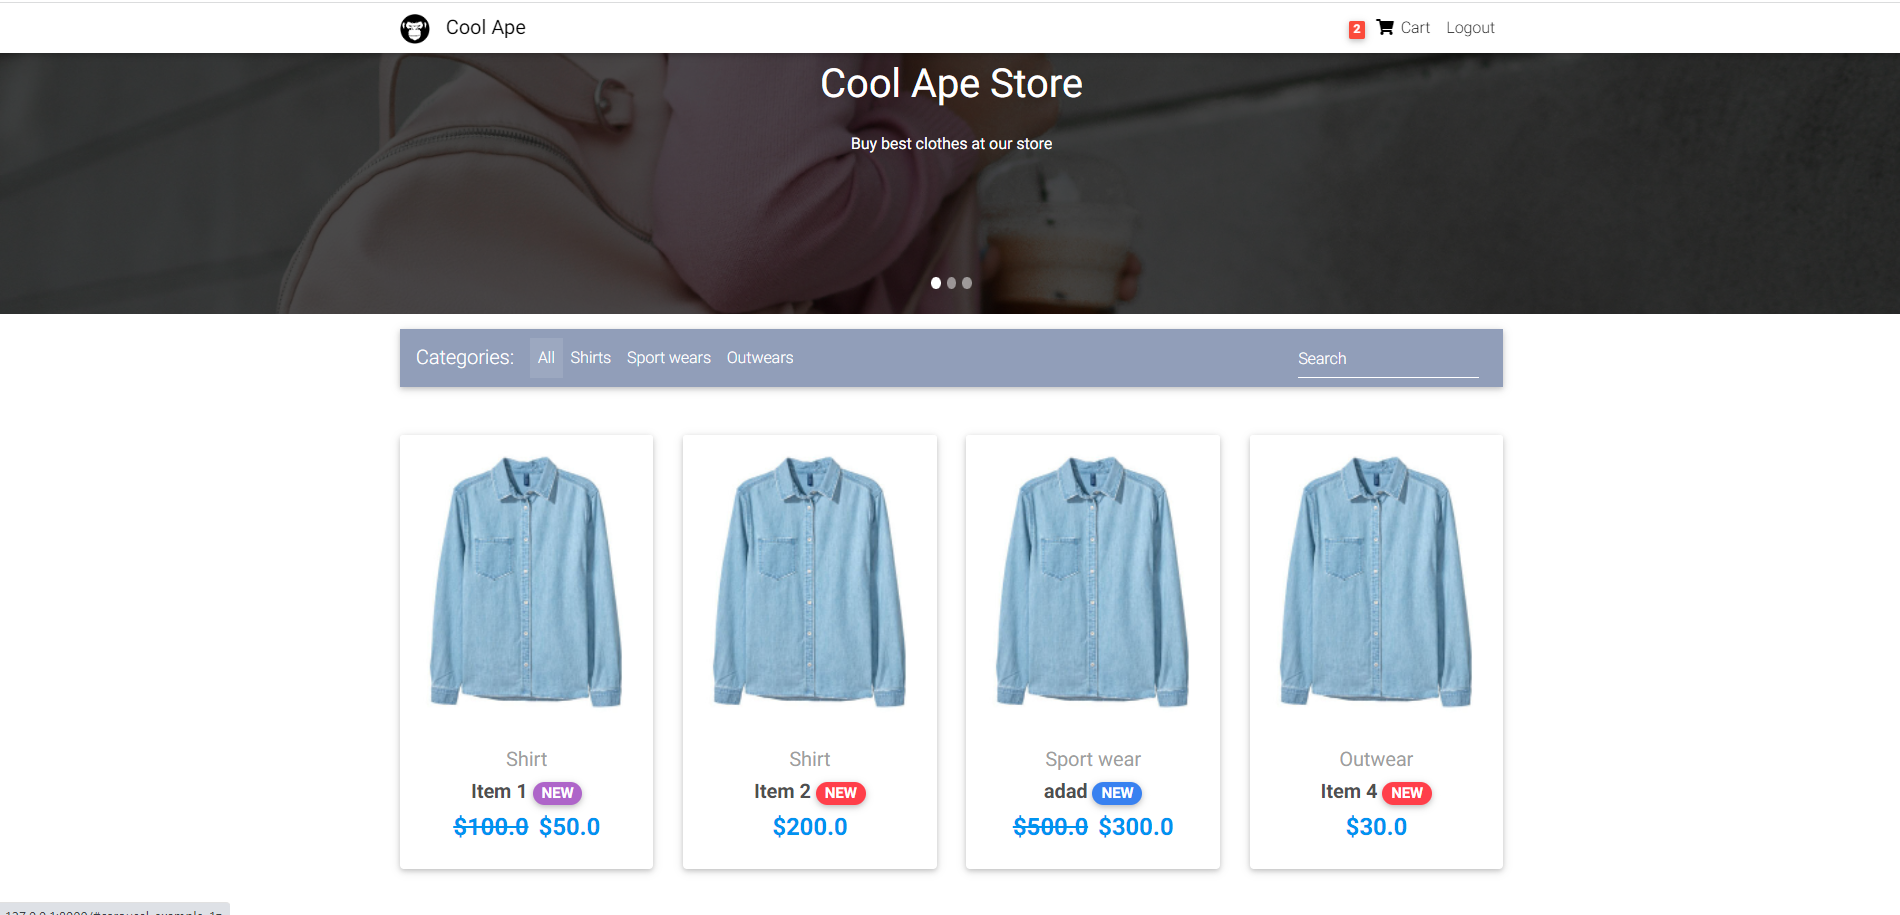
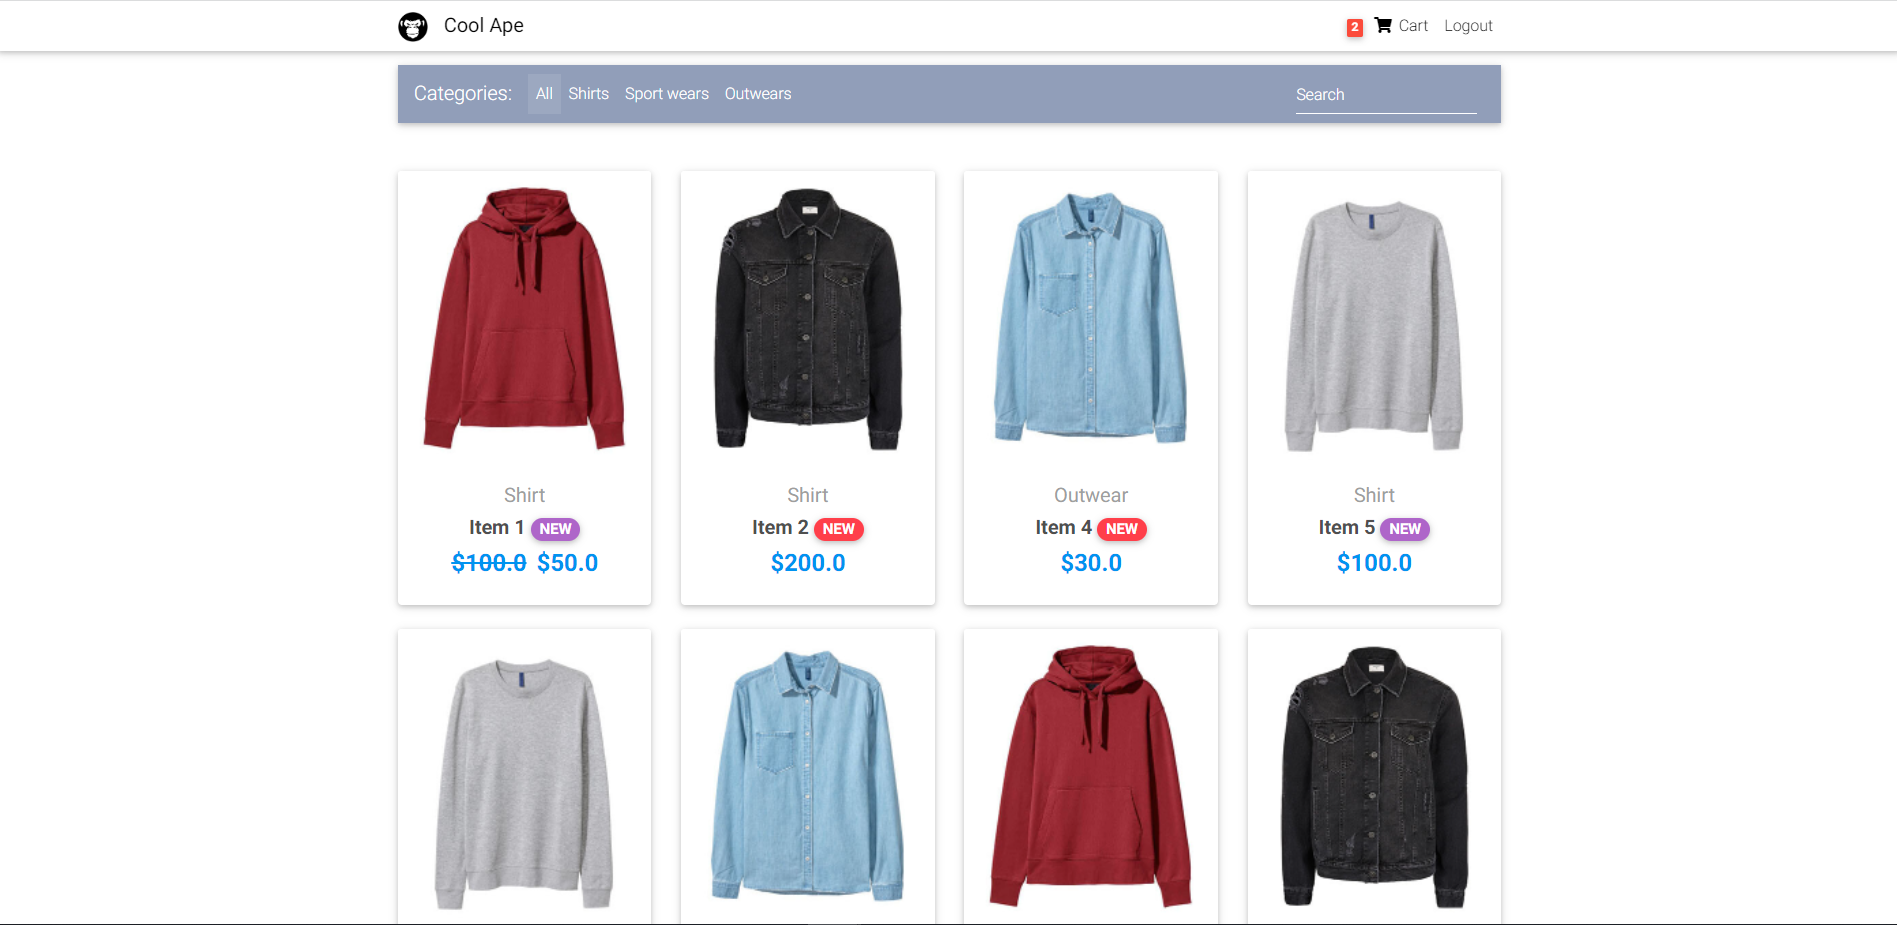
add image to item

diff --git a/templates/home.html b/templates/home.html
@@ -178,8 +178,8 @@
 
               <!--Card image-->
               <div class="view overlay">
-                <img src="https://mdbootstrap.com/img/Photos/Horizontal/E-commerce/Vertical/12.jpg" class="card-img-top"
-                  alt="">
+                {% comment%}<img src="https://mdbootstrap.com/img/Photos/Horizontal/E-commerce/Vertical/12.jpg" class="card-img-top"alt="">{% endcomment%}
+                <img src="{{ item.image.url }}" class="card-img-top"alt="">
                 <a href="{{ item.get_absolute_url }}">
                   <div class="mask rgba-white-slight"></div>
                 </a>

diff --git a/core/migrations/0016_item_image.py b/core/migrations/0016_item_image.py
@@ -1,0 +1,18 @@
+# Generated by Django 2.2 on 2022-05-23 20:33
+
+from django.db import migrations, models
+
+
+class Migration(migrations.Migration):
+
+    dependencies = [
+        ('core', '0015_auto_20220522_1702'),
+    ]
+
+    operations = [
+        migrations.AddField(
+            model_name='item',
+            name='image',
+            field=models.ImageField(blank=True, null=True, upload_to=''),
+        ),
+    ]

diff --git a/core/migrations/0017_auto_20220523_2238.py b/core/migrations/0017_auto_20220523_2238.py
@@ -1,0 +1,18 @@
+# Generated by Django 2.2 on 2022-05-23 20:38
+
+from django.db import migrations, models
+
+
+class Migration(migrations.Migration):
+
+    dependencies = [
+        ('core', '0016_item_image'),
+    ]
+
+    operations = [
+        migrations.AlterField(
+            model_name='item',
+            name='image',
+            field=models.ImageField(upload_to=''),
+        ),
+    ]

diff --git a/core/models.py b/core/models.py
@@ -41,6 +41,7 @@ class Item(models.Model):
     label = models.CharField(choices=LABEL_CHOICES, max_length=1)
     slug = models.SlugField()
     description = models.TextField()
+    image = models.ImageField()
 
     def __str__(self):
         return self.title

diff --git a/README.md b/README.md
@@ -1,4 +1,4 @@
-# "CoolApe" - Aplikacja webowa typu "E-Commerce"
+# CoolApe - Aplikacja webowa typu "E-Commerce"
 
 Aplikacja zaimplemntowana w oparciu o framework Django
 
@@ -11,11 +11,12 @@ Aplikacja zaimplemntowana w oparciu o framework Django
 1. Logowanie / Rejestracja użytkownikow
 2. Panel administracyjny
 3. Prezentacja artykułów na stronie głównej
-4. Wyszukiwanie artykułow po nazwie oraz możliwość filtowania artykułów
+4. Wyszukiwanie artykułow po nazwie oraz możliwość filtowania artykułów po kategorii
 4. Możliwość dodania do / usunięcia z koszyka wybranych artykułów
 5. Obsługa płatności za pomocą Stripe
 6. Pobranie od użytkownika adresu dostawy
 7. Mozliwość aktywacji kodu rabatowego
+8. Możliwość zwrotu pieniędzy
 
 ## Wykożystane materiały
 
